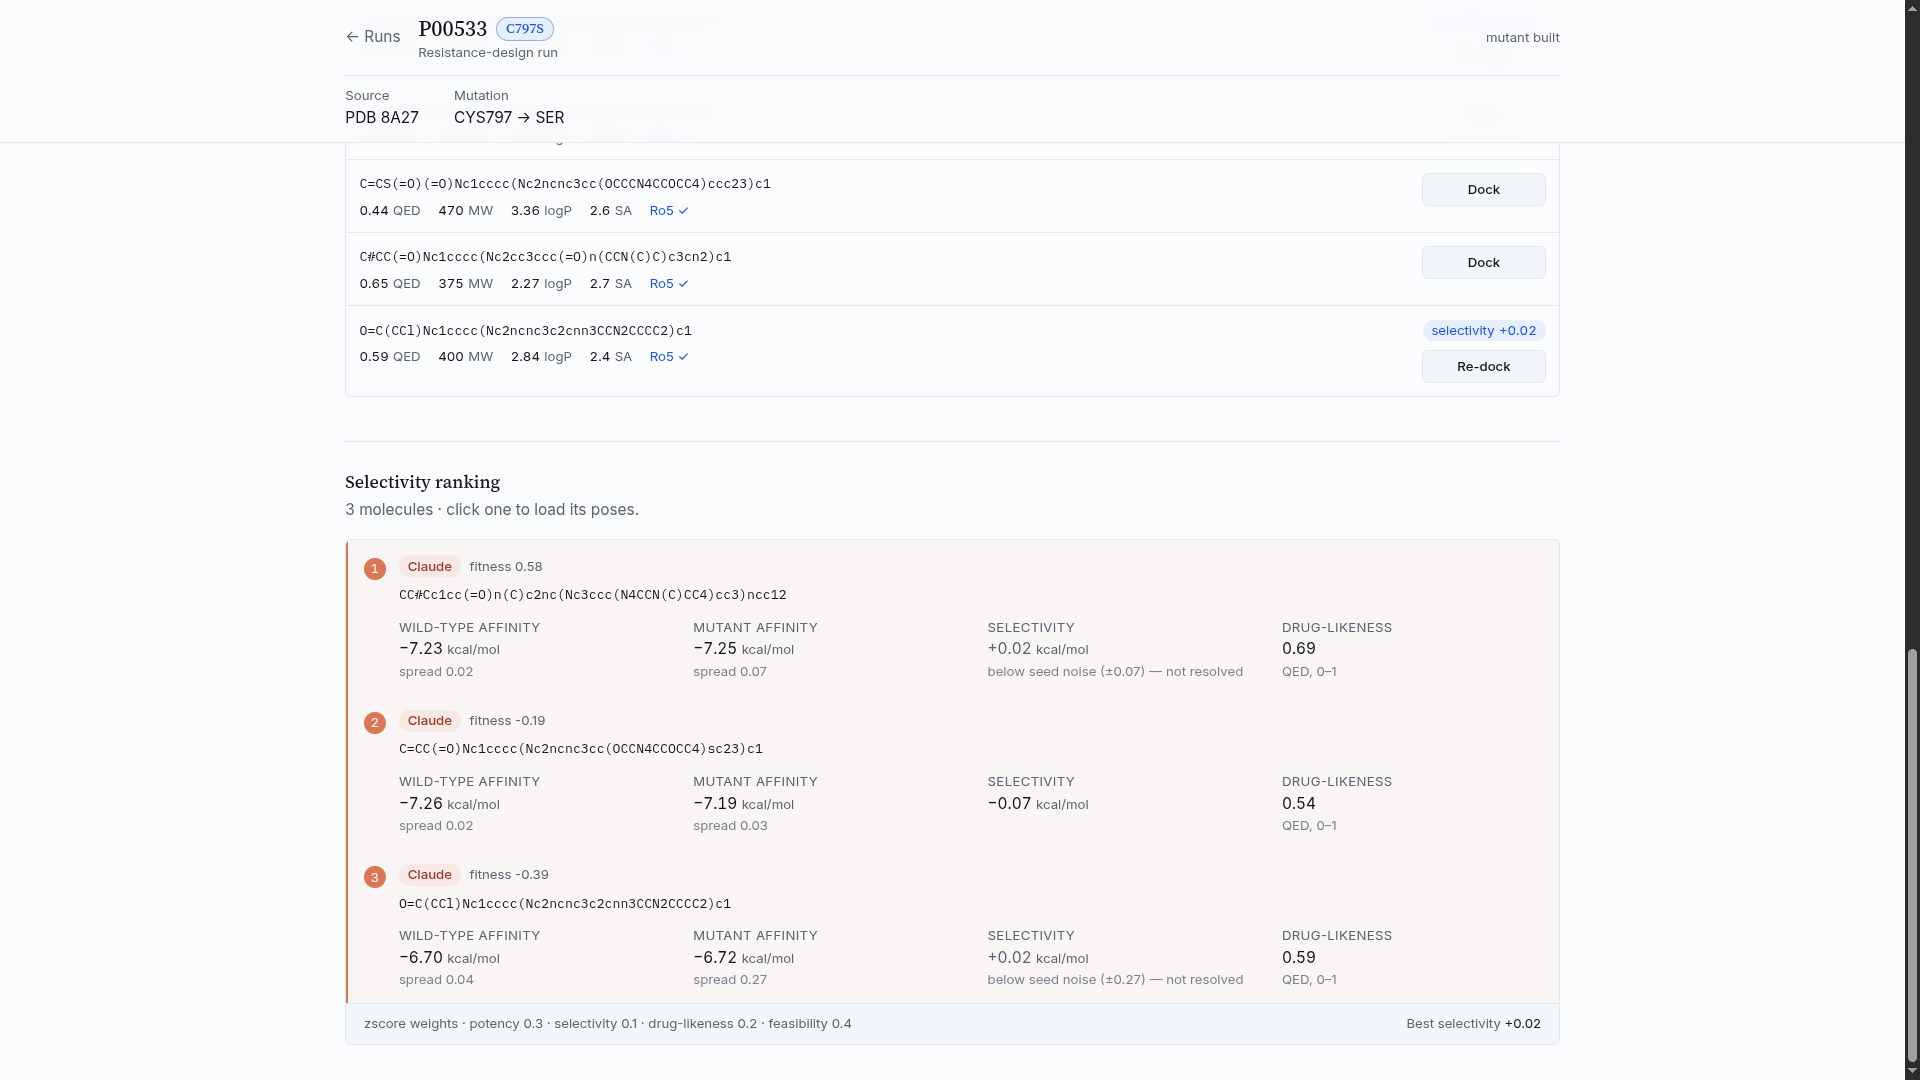
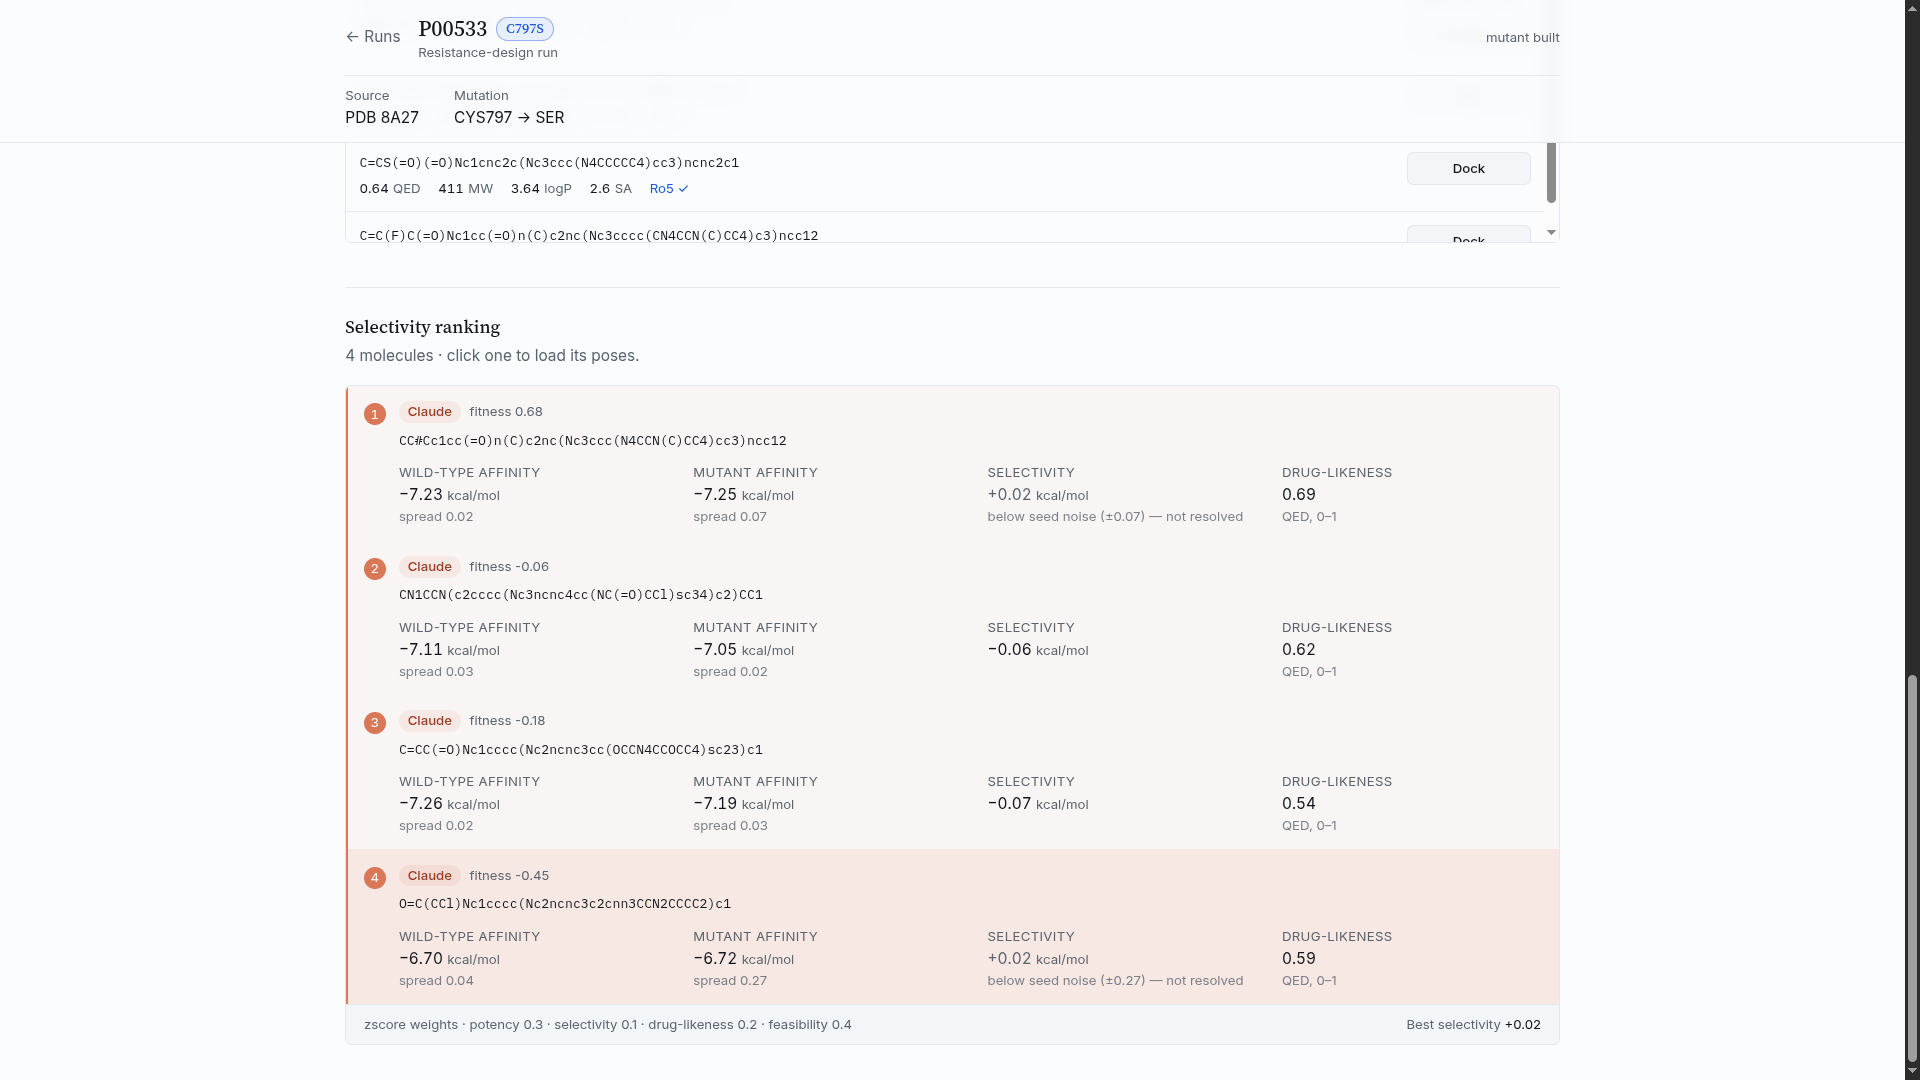
docs(walkthrough): lead the ranking stage with the feedback round
Swap the ranking screenshot for the four-molecule board where the fourth
molecule is one Claude designed after the first three were docked and fed
back, and rewrite the caption and text to make the closing loop the point.
Drop the em-dashes to match the README style.

Claude-Session: https://claude.ai/code/session_018P2ij94ASY9G9HjayyfcGi

diff --git a/jm5c02924-walkthrough.md b/jm5c02924-walkthrough.md
@@ -1,16 +1,16 @@
-# Stanza — Pipeline Walkthrough
+# Stanza: Pipeline Walkthrough
 
 *A worked example: designing against EGFR C797S, ingested from a medicinal-chemistry paper.*
 
 Stanza turns a resistance target into a ranked set of candidate molecules. You give it a protein and a resistance mutation; it acquires the wild-type structure, builds the matched mutant, and drives a **generate → dock → rank** loop to find molecules that bind the mutant while sparing the wild type. This walkthrough follows one run end to end.
 
-The target here is **EGFR** with the **C797S** resistance mutation — the on-target mutation that defeats third-generation inhibitors like osimertinib by removing the cysteine they covalently bond. The design instead targets a *different* native cysteine in the ATP pocket, **Cys775**.
+The target here is **EGFR** with the **C797S** resistance mutation, the on-target mutation that defeats third-generation inhibitors like osimertinib by removing the cysteine they covalently bond. The design instead targets a *different* native cysteine in the ATP pocket, **Cys775**.
 
 ---
 
 ## 1. Ingest the target from a paper
 
-A run can start from a typed target, or from a paper. Upload a PDF and Claude reads the full document and drafts a curated site — target, reactive residue, pocket, weight window, prior art — with the exact sentence behind each field. Its progress is shown as it works.
+A run can start from a typed target, or from a paper. Upload a PDF and Claude reads the full document and drafts a curated site (target, reactive residue, pocket, weight window, prior art) with the exact sentence behind each field. Its progress is shown as it works.
 
 ![Uploading the paper and extracting the site](jm5c02924-walkthrough/1-ingest-paper.png)
 
@@ -20,11 +20,11 @@ A run can start from a typed target, or from a paper. Upload a PDF and Claude re
 
 Nothing drives a run until a person ratifies it. Every extracted field is shown editable **beside the verbatim sentence it came from**, so a confirmation is a check against the source text rather than an act of faith. A field the model cannot ground in the paper is marked *not found in paper* instead of being invented.
 
-For this target the review captures the load-bearing distinction: the **reactive residue is Cys775, not the mutation site (C797S)** — because C797S removes the cysteine earlier drugs bonded, the design targets a different cysteine. The site is marked **covalent**, meaning a warhead should bond that residue.
+For this target the review captures the load-bearing distinction: the **reactive residue is Cys775, not the mutation site (C797S)**. Because C797S removes the cysteine earlier drugs bonded, the design targets a different cysteine. The site is marked **covalent**, meaning a warhead should bond that residue.
 
 ![Confirming the target and its provenance](jm5c02924-walkthrough/2-confirm-target.png)
 
-The same review covers the **design guidance** — the mechanism, the pharmacophore, the pocket residues (UniProt-numbered), any molecular-weight window, and the prior art the generator must not simply re-derive — plus the **structure** the wild-type/mutant pair will be built on.
+The same review covers the **design guidance**: the mechanism, the pharmacophore, the pocket residues (UniProt-numbered), any molecular-weight window, and the prior art the generator must not simply re-derive. It also covers the **structure** the wild-type / mutant pair will be built on.
 
 ![Design guidance and structure](jm5c02924-walkthrough/3-confirm-guidance.png)
 
@@ -32,7 +32,7 @@ The same review covers the **design guidance** — the mechanism, the pharmacoph
 
 ## 3. Build the matched wild-type / mutant pair
 
-On confirmation, Stanza acquires the wild-type structure, applies the point mutation, and builds the mutant — producing two aligned structures that differ only at the mutated site. Both are shown side by side.
+On confirmation, Stanza acquires the wild-type structure, applies the point mutation, and builds the mutant, producing two aligned structures that differ only at the mutated site. Both are shown side by side.
 
 ![Wild-type and mutant structures, with the changed pocket](jm5c02924-walkthrough/4-mutant-pocket.png)
 
@@ -42,7 +42,7 @@ The panel underneath reports **what the mutation changed**: the residues lining 
 
 ## 4. Generate candidate molecules
 
-Claude is asked for drug-like molecules aimed at the mutant pocket. For a covalent site, it is briefed to place a warhead that can reach the reactive residue (Cys775) on a short, direct linker, while filling the rest of the pocket. Every proposal then passes an RDKit pre-filter — drug-likeness (QED), molecular weight, logP, synthetic accessibility, and a rule-of-five check — before it is kept.
+Claude is asked for drug-like molecules aimed at the mutant pocket. For a covalent site, it is briefed to place a warhead that can reach the reactive residue (Cys775) on a short, direct linker, while filling the rest of the pocket. Every proposal then passes an RDKit pre-filter on drug-likeness (QED), molecular weight, logP, synthetic accessibility, and a rule-of-five check before it is kept.
 
 ![Generated candidate molecules](jm5c02924-walkthrough/5-candidates.png)
 
@@ -52,11 +52,11 @@ Each kept molecule is shown with its SMILES and computed properties, ready to do
 
 ## 5. Dock and rank by selectivity
 
-Each candidate is docked into **both** tracks — the wild-type structure and the mutant — and scored. Molecules are ranked by a composite **fitness** that combines potency, wild-type-vs-mutant selectivity, drug-likeness, and covalent feasibility, with each track's per-seed spread reported so a margin is never read as real when it sits inside the docking noise.
+Each candidate is docked into **both** tracks, the wild-type structure and the mutant, and scored. Molecules are ranked by a composite **fitness** that combines potency, wild-type-vs-mutant selectivity, drug-likeness, and covalent feasibility, with each track's per-seed spread reported so a margin is never read as real when it sits inside the docking noise.
 
-![Selectivity ranking](jm5c02924-walkthrough/6-selectivity-ranking.png)
+![Selectivity ranking, with a feedback-round molecule on the board](jm5c02924-walkthrough/6-selectivity-ranking.png)
 
-The loop closes here: every molecule you dock is fed back to the generator, so the next **Generate** re-designs against the measured results — aiming for stronger molecules each round.
+The loop closes here. Every molecule you dock is fed back to the generator, so the next **Generate** re-designs against the measured results. This board is mid-loop: the first three molecules were docked and fed back, and the fourth is one Claude then designed against their results and docked in the next round, now ranked beside them.
 
 ---
 